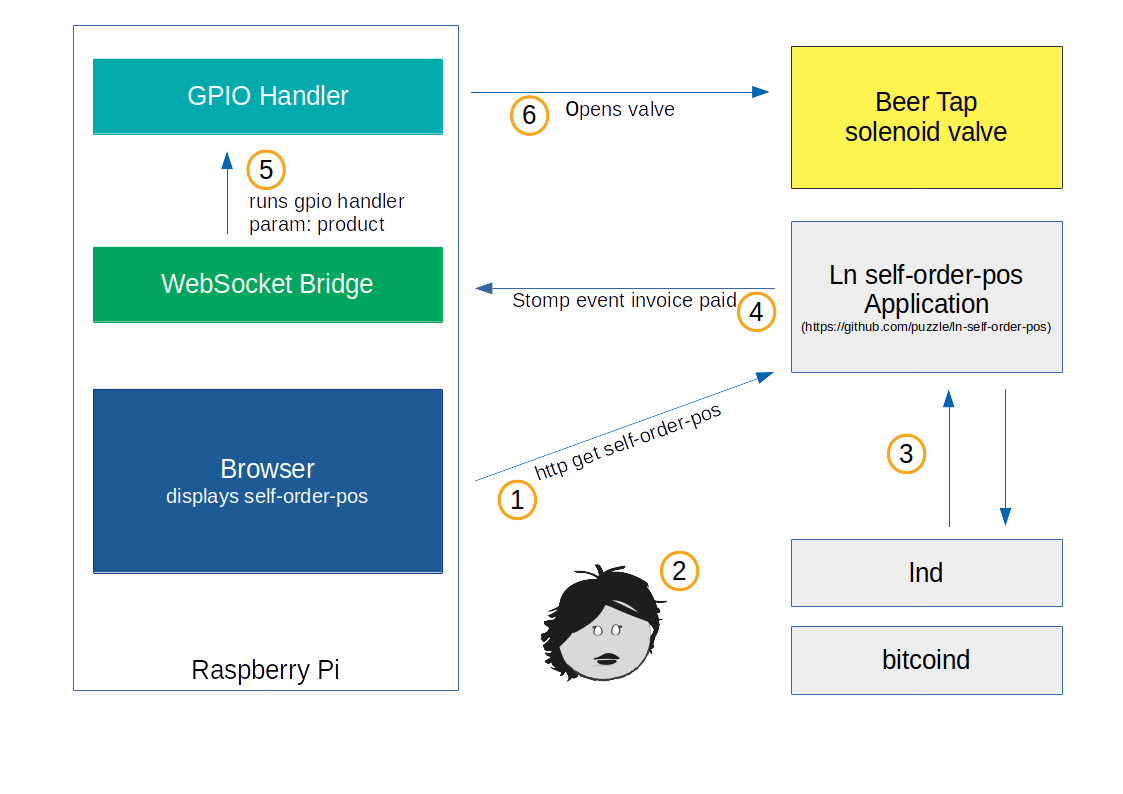
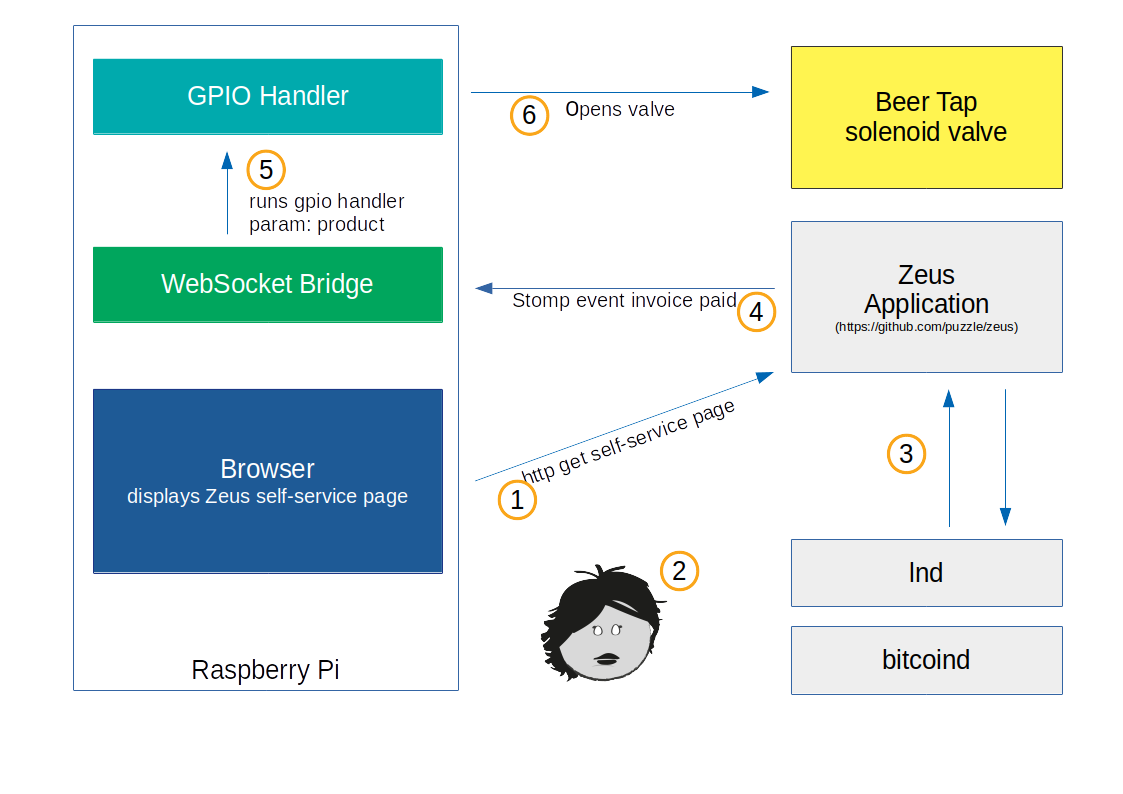
Rename ln-self-order-pos to Zeus, fix some spelling errors

diff --git a/README.md b/README.md
@@ -1,6 +1,7 @@
 # Lightning powered beer tap
 
-This project consists of multiple parts. To make things easier the `application.sh` provides a frontend to control everything. The different parts of the project are documented below.
+This project consists of multiple parts. To make things easier the `application.sh` provides a frontend
+to control everything. The different parts of the project are documented below.
 
 ## Architecture
 
@@ -9,15 +10,17 @@ The following diagram provides a general overview on how all the components work
 ![Architecture](./graphics/architecture.png)
 
 
-1. Basic Setup is done by running the `application.sh` shell script. (start Chromium in Kiosk mode, displays the self order pos webapplication in the Browser, starts the WebSocket Bridge
+1. Basic Setup is done by running the `application.sh` shell script. (start Chromium in Kiosk mode, displays
+   the Zeus self-service web application in the browser, starts the WebSocket Bridge
 1. User scans and pays invoice
-1. self-order pos gets notified that payment was successful
-1. self-order pos application sends a stomp event to the websocket
+1. Zeus gets notified that payment was successful
+1. Zeus sends a stomp event to the websocket
 1. WebSocket bridge runs the GPIO Handler with parameters about the product eg. small|large beer
 1. GPIO Handler switches the relay for a certain amount of time (small beer 5 seconds, large beer 7 seconds)
 **Important:** enjoy your beer, lightning pioneer!
 
-The ln-self-order pos Application as well as lnd and bitcoind are not part of this project. Details about those can be found under https://github.com/puzzle/ln-self-order-pos
+The Zeus Application as well as lnd and bitcoind are not part of this project.
+Details about those can be found under [https://github.com/puzzle/zeus](https://github.com/puzzle/zeus)
 
 ## Impressions
 
@@ -36,9 +39,10 @@ Check out this [video](https://twitter.com/puzzleitc/status/1054770838984122368)
 
 ## Parts list
 
-To build your own lightning powered beer tap you'll need the follwing parts. We got most of our parts from distibutors located in switzerland, but you can get them anywhere you want.
+To build your own lightning powered beer tap you'll need the follwing parts. We got most of our parts from distributors
+located in switzerland, but you can get them anywhere you want.
 
-| **Partname**                    | **Partnumber** | **Price / CHF**   |  **Distributor**          |
+| **Part name**                    | **Part number** | **Price / CHF**   |  **Distributor**          |
 | :------------------------------ | --------------:| ----------------: | :------------------------ |
 | Raspberry Pi 3 B+               |  10760         |  39               |  pi-shop.ch               |
 | 32GB MicroSD Card               |  6613018       |  29.9             |  digitec.ch               |
@@ -51,11 +55,13 @@ To build your own lightning powered beer tap you'll need the follwing parts. We 
 
 ## Installation
 
-This is straightforward. If you bought an empty micro-sd card, just download the latest [Raspbian image](https://www.raspberrypi.org/downloads/raspbian/).
+This is straightforward. If you bought an empty micro-sd card, just download the latest
+[Raspbian image](https://www.raspberrypi.org/downloads/raspbian/).
 * Fire up `dd` to load the image to your card.
 * Use `sudo raspi-config` to extend your partitions, start openssh and enable the gpios.
-* Follow the guide on [how to secure you raspberry pi](https://www.raspberrypi.org/documentation/configuration/security.md)
-* Once you've deployed your ssh key and secured your acces, clone this repo.
+* Follow the guide on
+  [how to secure you raspberry pi](https://www.raspberrypi.org/documentation/configuration/security.md)
+* Once you've deployed your ssh key and secured your access, clone this repo.
 * Install the necessary software to your pi by executing the following commands:
 ```bash
 sudo apt-get update
@@ -65,13 +71,14 @@ sudo apt-get install -y  openjdk-8-jre openjdk-8-jdk unclutter vim
 * You're all set and ready to go
 * Clone the repository on your Raspberry Pi
 
-# Aplication.sh start script
+# application.sh start script
 
 This script is used to start, stop or rebuild the application. Simple as that.
-The websocket bridge will be automatically builded if you run `start` without a
+The websocket bridge will be automatically built if you run `start` without a
 previous build.
 
-You might need to change the URL of your running ln-self-order-pos in the `application.sh` and dashboard `dashboard/dashboard.sh` files
+You might need to change the URL of your running ln-self-order-pos in the `application.sh` and dashboard
+`dashboard/dashboard.sh` files
 
 ```bash
 $ ./application.sh start # starts the dashboard and websocket bridge
@@ -89,7 +96,7 @@ To execute this python module the user has to be part of the group `gpio`.
 
 ## Dependencies
 
-* RPi-GPIO (preinstalled on all raspberry pi distros)
+* RPi-GPIO (pre-installed on all raspberry pi distributions)
 * argparse
 
 ## how to run

diff --git a/websocket_bridge/README.md b/websocket_bridge/README.md
@@ -1,6 +1,7 @@
 # WebSocket Bridge
 
-The WebSocket Bridge connects to the invoices WebSocket provided by a running instance of the https://github.com/puzzle/ln-self-order-pos
+The WebSocket Bridge connects to the invoices WebSocket provided by a running instance of the
+[https://github.com/puzzle/zeus](https://github.com/puzzle/zeus) application.
 
 ## build java application
 ```bash
